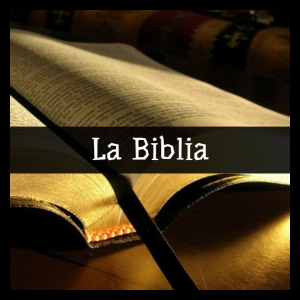
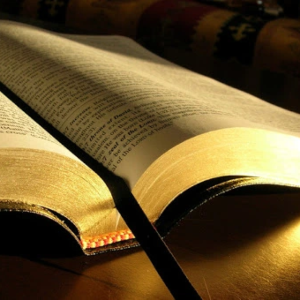
zz

diff --git a/index.css b/index.css
@@ -8,7 +8,6 @@
     display: grid;
     gap: 1.5vw;
     grid-template-columns: repeat(auto-fill, minmax(38vw, 1fr));
-    grid-auto-rows: minmax(38vw, auto);
 }
 
 body {
@@ -37,7 +36,6 @@ body::before{
 
 .grid-items{
     width: 100%;
-    height: 100%;
     align-items: center;
     justify-content: center;
     display: flex;
@@ -49,10 +47,29 @@ ul {
     background-color: rgba(0, 0, 0, 0.2);
 }
 
-
 .iconos {
     border-radius: 1vw;
     width: 100%;
+}
+
+.contenedor-imagen-y-texto{
+    position: relative;
+    display: inline-block;
+    text-align: center;
+}
+ 
+
+.texto-central{
+    position: absolute;
+    width: 100%;
+    font-size: 3vw;
+    font-family: tahoma;
+    padding: 0.5vw;
+    color: rgb(255, 255, 255);
+    background-color: rgba(0, 0, 0, 0.5);
+    top: 90%;
+    left: 50%;
+    transform: translate(-50%, -50%);   
 }
 
 /*Orientacion Horizontal*/
@@ -62,12 +79,15 @@ ul {
     .grid-container {
         gap: 1vw;
         grid-template-columns: repeat(auto-fill, minmax(22vw, 1fr));
-        grid-auto-rows: minmax(22vw, auto);
     }
 
     ul {
         padding: 1.5vw;
         background-color: rgba(0, 0, 0, 0.2);
+    }
+    .texto-central {
+        font-size: 1.5vw;
+        padding: 0.3vw;
     }
 }
 
@@ -80,17 +100,25 @@ ul {
     .grid-container {
         gap: 1vw;
         grid-template-columns: repeat(auto-fill, minmax(26vw, 1fr));
-        grid-auto-rows: minmax(26vw, auto);
+    }
+
+    .texto-central {
+        font-size: 1.7vw;
+        padding: 0.3vw;
     }
 }
 
 /*Orientacion Horizontal*/
 
-@media screen and (min-width: 1024px) and (max-width: 1366px) and (orientation: landscape) {
+@media screen and (min-width: 1024px) and (max-width: 1920px) and (orientation: landscape) {
 
     .grid-container {
         gap: 1vw;
         grid-template-columns: repeat(auto-fill, minmax(19vw, 1fr));
-        grid-auto-rows: minmax(19vw, auto);
+    }
+
+    .texto-central {
+        font-size: 1.5vw;
+        padding: 0.2vw;
     }
 }
